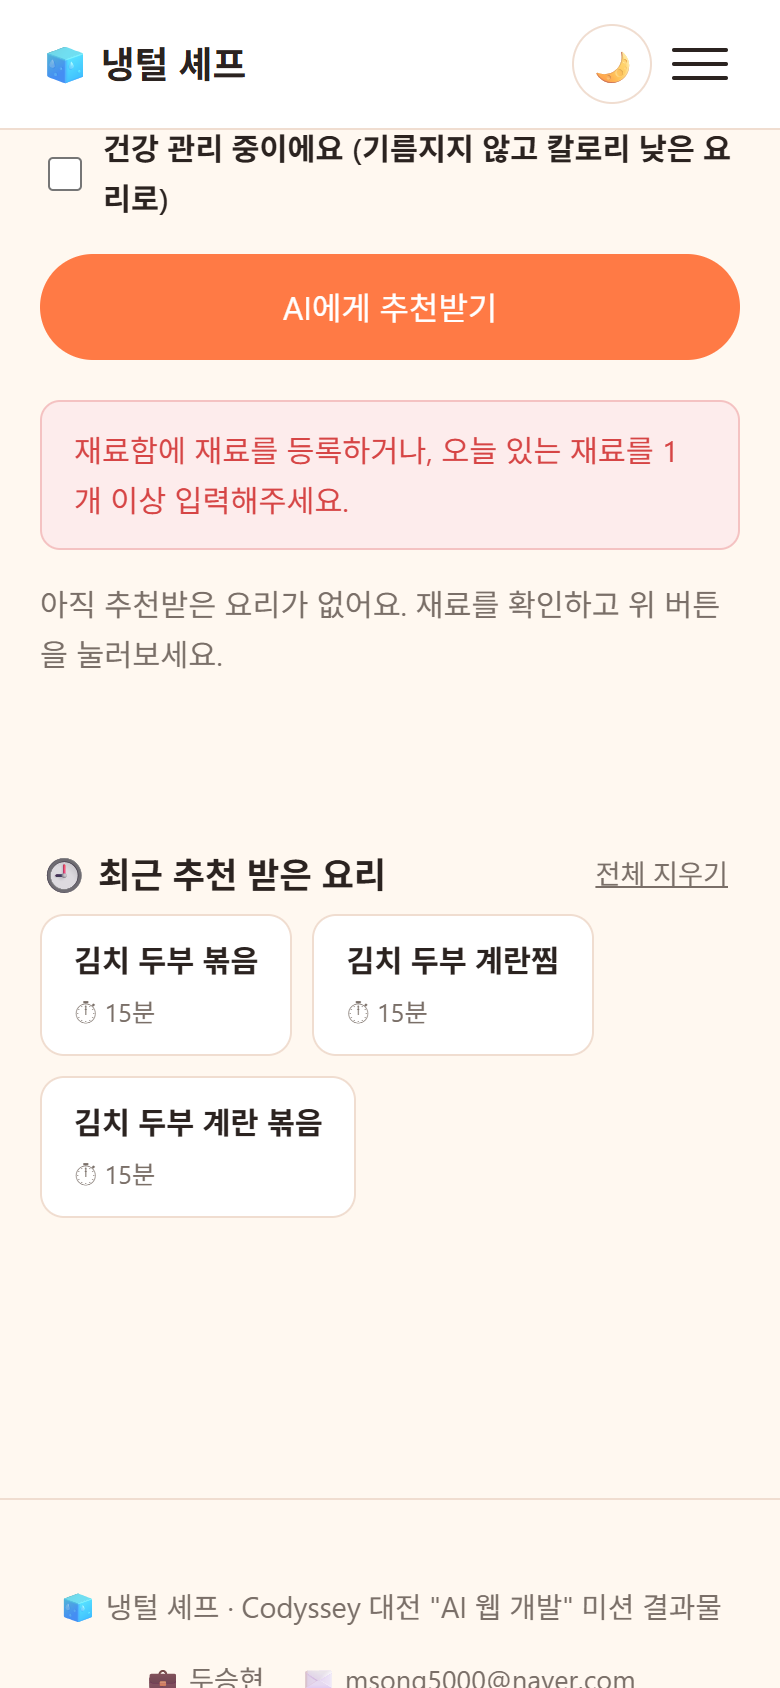
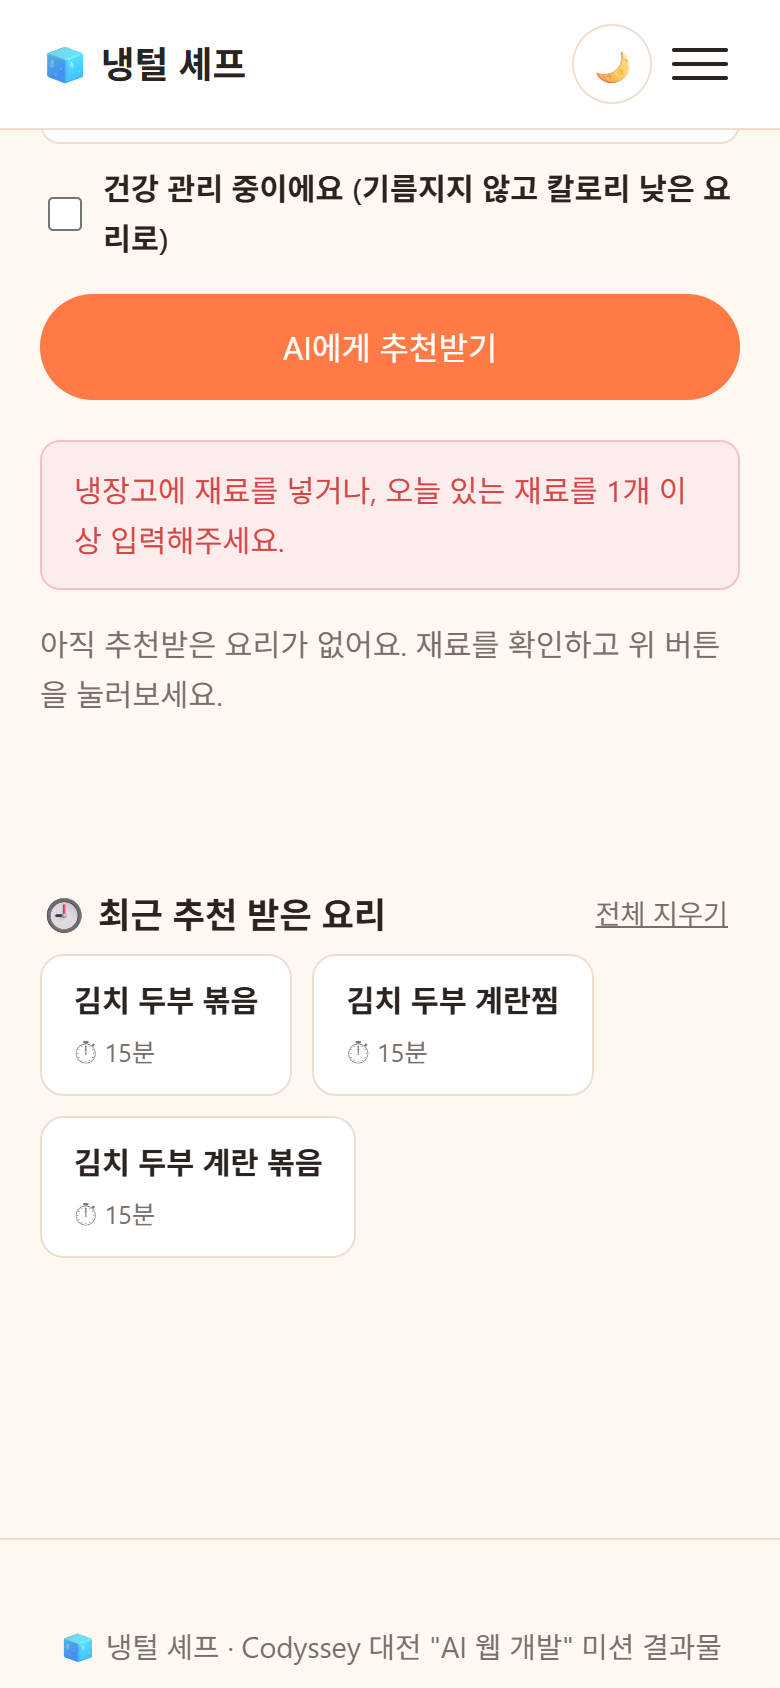
docs: 실행 화면 증빙에 모바일·실패 처리 캡처 추가, 안내 문구 변경 반영
미션 제출 패키지의 증빙 자료 요구(데스크톱 + 모바일 + AI 기능 동작 장면)를 채운다. 빈 입력 안내 문구는 용어 통일(f0e83b7) 후 배포본에서 다시 캡처했고, 기획서의 실패 처리 표도 실제 문구로 맞췄다.

diff --git a/README.md b/README.md
@@ -128,7 +128,7 @@ python -m http.server 8000
 
 ```
 입력: (냉장고 비어 있음) + (추가 재료 빈칸)
-→ "재료함에 재료를 등록하거나, 오늘 있는 재료를 1개 이상 입력해주세요."
+→ "냉장고에 재료를 넣거나, 오늘 있는 재료를 1개 이상 입력해주세요."
 ```
 
 이 문구는 `role="alert"`가 걸려 있어 화면을 보지 못해도 즉시 읽힙니다.
@@ -260,6 +260,8 @@ msong7618@gmail.com
 `git log --oneline --graph --all`
 
 ```
+* f0e83b7 fix: 화면에 남아 있던 옛 용어 "재료함"을 "냉장고"로 통일
+* 34cce16 docs: 개발환경 증빙 git log 갱신
 * 4144ad7 docs: 배포 URL과 배포본 실행 화면 캡처를 README에 반영
 * c44d03f feat: 장보기 목록을 AI가 수량까지 따져 직접 뽑도록 변경
 * a45236f fix: 장보기 리스트에 소금·후추·물 같은 기본 조미료가 섞이던 문제

diff --git a/docs/서비스기획서.md b/docs/서비스기획서.md
@@ -105,7 +105,7 @@
 
 | 상황 | 처리 방식 | 사용자 안내 문구 |
 |---|---|---|
-| 빈 입력 (재료 누락) | 프론트에서 우선 검증, 서버도 동일 검증(2중 방어) | "재료를 1개 이상 입력해주세요." |
+| 빈 입력 (재료 누락) | 프론트에서 우선 검증, 서버도 동일 검증(2중 방어) | "냉장고에 재료를 넣거나, 오늘 있는 재료를 1개 이상 입력해주세요." |
 | API 오류 (4xx/5xx) | 서버가 OpenAI 응답 상태를 그대로 노출하지 않고, 원인별로 502/504로 매핑 | "AI 서비스에 일시적인 문제가 발생했어요. 잠시 후 다시 시도해주세요." |
 | 지연/타임아웃 | 서버 15초, 클라이언트 20초로 이중 타임아웃 설정 | "AI 응답이 지연되고 있어요. 잠시 후 다시 시도해주세요." |
 
